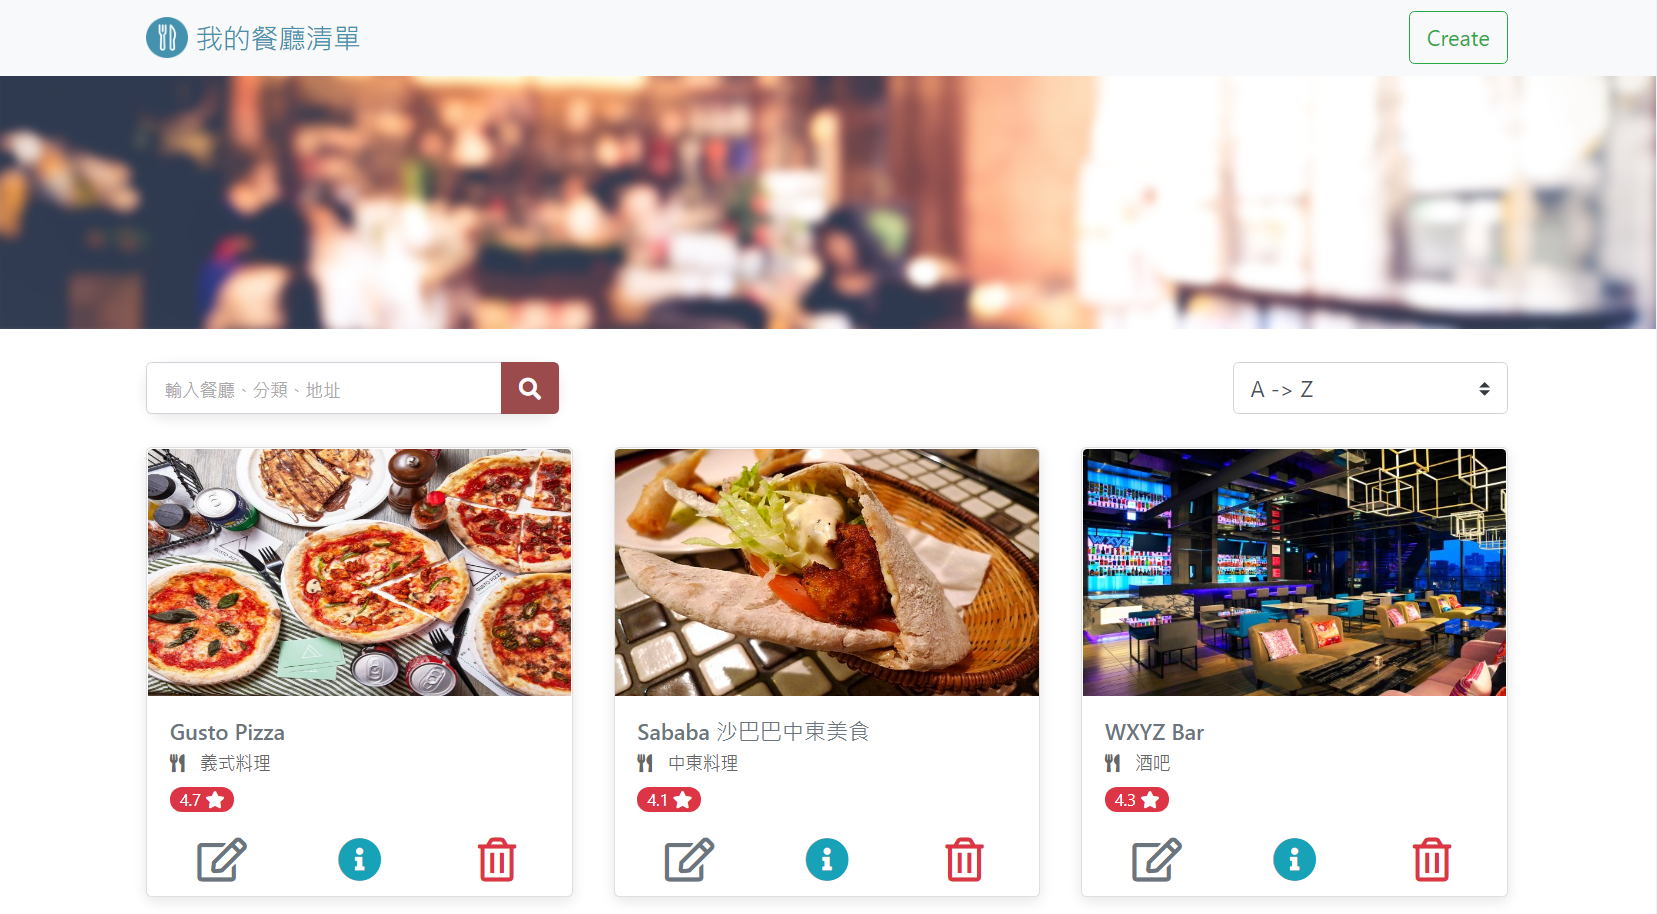
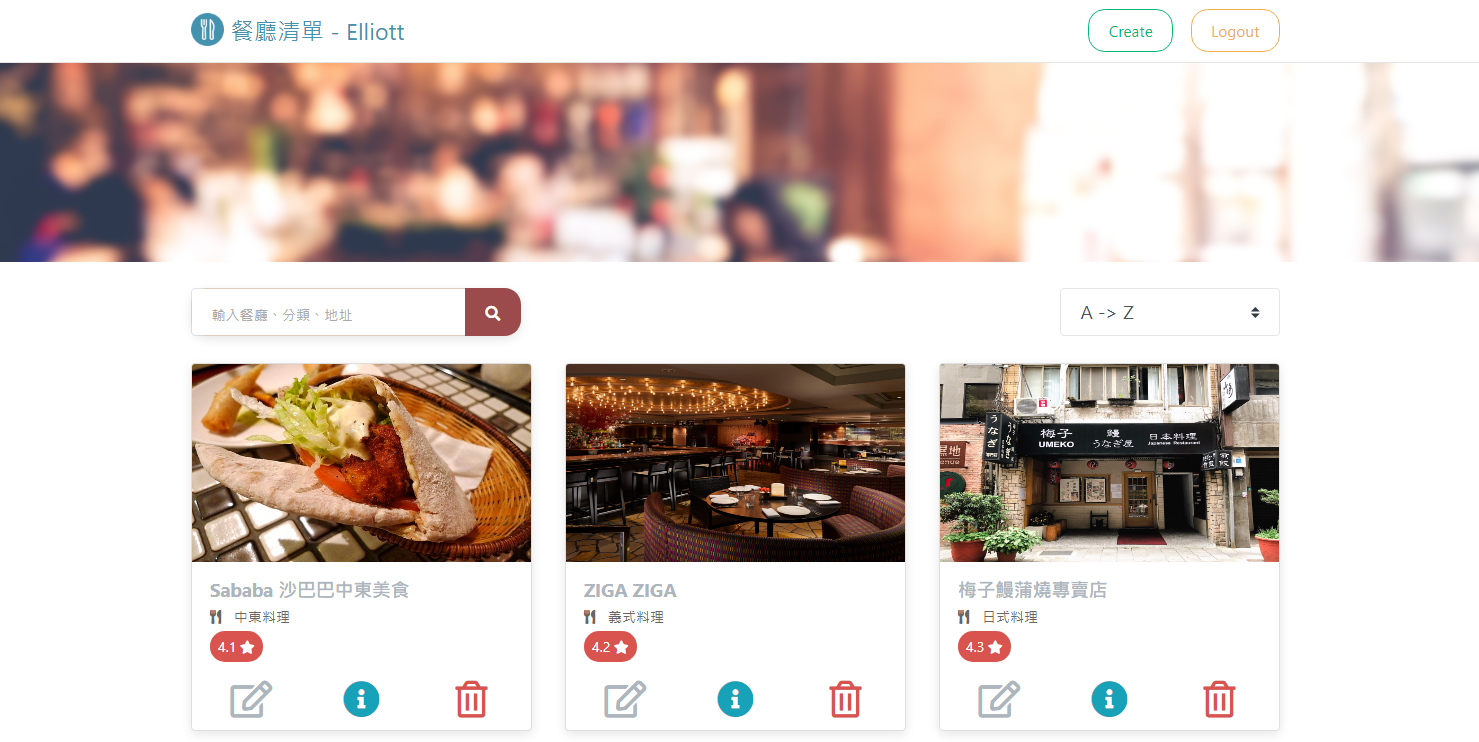
fix: remove filter.js, implement filter feature in restaurant route

diff --git a/config/passport.js b/config/passport.js
@@ -9,19 +9,18 @@ module.exports = app => {
   app.use(passport.initialize())
   app.use(passport.session())
 
-  // 本地認證
+  // Local strategy
   passport.use(new LocalStrategy(
     { usernameField: 'email', passReqToCallback: true },
-    // 驗證函式
+    // Verifying function
     (req, email, password, done) => {
       User.findOne({ email })
         .then(user => {
-          // 無此使用者
+          // No user with this email
           if (!user) {
             return done(null, false, req.flash('login_msg', 'User not found'))
           }
-
-          // 確認密碼
+          // Passwords check
           bcrypt.compare(password, user.password)
             .then(isMatch => {
               if (!isMatch) {
@@ -34,7 +33,7 @@ module.exports = app => {
     }
   ))
 
-  // FB 認證
+  // FB strategy
   passport.use(new FacebookStrategy({
     clientID: process.env.FACEBOOK_ID,
     clientSecret: process.env.FACEBOOK_SECRET,
@@ -49,7 +48,7 @@ module.exports = app => {
         if (user) {
           return done(null, user)
         }
-        // 無此 email
+        // No this email yet
         const randomPassword = Math.random().toString(36).slice(8)
         bcrypt
           .genSalt(10)
@@ -65,6 +64,7 @@ module.exports = app => {
   }
   ))
 
+  // Session
   passport.serializeUser((user, done) => {
     done(null, user.id)
   })

diff --git a/routes/modules/restaurants.js b/routes/modules/restaurants.js
@@ -3,6 +3,35 @@ const router = express.Router()
 
 const Restaurant = require('../../models/restaurant')
 const restaurantStyles = require('../../models/restaurantStyle')
+const sortOptions = require('../../models/sortOptions.json')
+
+// Filter restaurants
+router.get('/filter', (req, res) => {
+  const { keyword, option } = req.query
+  let matchedRestaurants = []
+
+  const sortKey = sortOptions[option].key
+  const sortMethod = sortOptions[option].method
+
+  Restaurant.find({ userId: req.user._id })
+    .lean()
+    .sort({ [sortKey]: sortMethod })
+    .then(restaurants => {
+      matchedRestaurants = restaurants.filter(restaurant =>
+        (restaurant.name.toLowerCase().includes(keyword.toLowerCase())) ||
+        (restaurant.name_en.toLowerCase().includes(keyword.toLowerCase())) ||
+        (restaurant.category.includes(keyword)) ||
+        (restaurant.location.includes(keyword))
+      )
+      res.render('index', {
+        restaurants: matchedRestaurants,
+        keyword,
+        sortOptions,
+        targetOption: option
+      })
+    })
+    .catch(err => console.error(err))
+})
 
 // Create a new restaurant page
 router.get('/new', (req, res) => {

diff --git a/models/seeds/restaurantSeeder.js b/models/seeds/restaurantSeeder.js
@@ -15,9 +15,9 @@ const db = require('../../config/mongoose')
 // Mock user data
 const SEED_USERS = [
   {
-    name: 'user1',
+    name: 'Elliott',
     email: 'user1@example.com',
-    password: '12345678'
+    password: '123'
   },
   {
     name: 'user2',
@@ -33,7 +33,7 @@ db.once('open', () => {
   const userPromise = []
   const restaurantPromise = []
   const userIds = []
-  // 建立使用者
+  // Build users
   SEED_USERS.forEach(seedUser => {
     const { name, email, password } = seedUser
     userPromise.push(
@@ -52,7 +52,7 @@ db.once('open', () => {
 
   Promise.all(userPromise)
     .then(() => {
-      // 建立餐廳
+      // Build restaurants
       SEED_RESTAURANTS.forEach((_, index) => {
         const userId = userIds[index]
         SEED_RESTAURANTS[index].forEach(restaurant => {

diff --git a/routes/index.js b/routes/index.js
@@ -2,14 +2,12 @@ const express = require('express')
 const router = express.Router()
 
 const home = require('./modules/home')
-const filter = require('./modules/filter')
 const restaurants = require('./modules/restaurants')
 const users = require('./modules/users')
 const fbAuth = require('./modules/fbAuth')
 
 const authenticator = require('../middleware/auth')
 
-router.use('/filter', filter)
 router.use('/restaurants', authenticator, restaurants)
 router.use('/users', users)
 router.use('/auth', fbAuth)

diff --git a/routes/modules/fbAuth.js b/routes/modules/fbAuth.js
@@ -3,10 +3,12 @@ const router = express.Router()
 
 const passport = require('passport')
 
+// Request to FB for login
 router.get('/facebook', passport.authenticate('facebook', {
   scope: ['email', 'public_profile']
 }))
 
+// Callback for authentication using user info from FB
 router.get('/facebook/callback', passport.authenticate('facebook', {
   successRedirect: '/',
   failureRedirect: '/users/login'

diff --git a/middleware/checkRegisterInfo.js b/middleware/checkRegisterInfo.js
@@ -6,7 +6,7 @@ module.exports = (req, res, next) => {
   const { email, password, confirmPassword } = req.body
 
   const errors = []
-  // 欄位確認
+  // Fields check
   if (!email || !password || !confirmPassword) {
     errors.push({ msg: 'All fields are necessary except for Name' })
   }

diff --git a/middleware/auth.js b/middleware/auth.js
@@ -3,7 +3,7 @@
  */
 module.exports = (req, res, next) => {
   if (!req.isAuthenticated()) {
-    req.flash('warning_msg', '請先登入')
+    req.flash('warning_msg', 'Please log in')
     return res.redirect('/users/login')
   }
   next()
